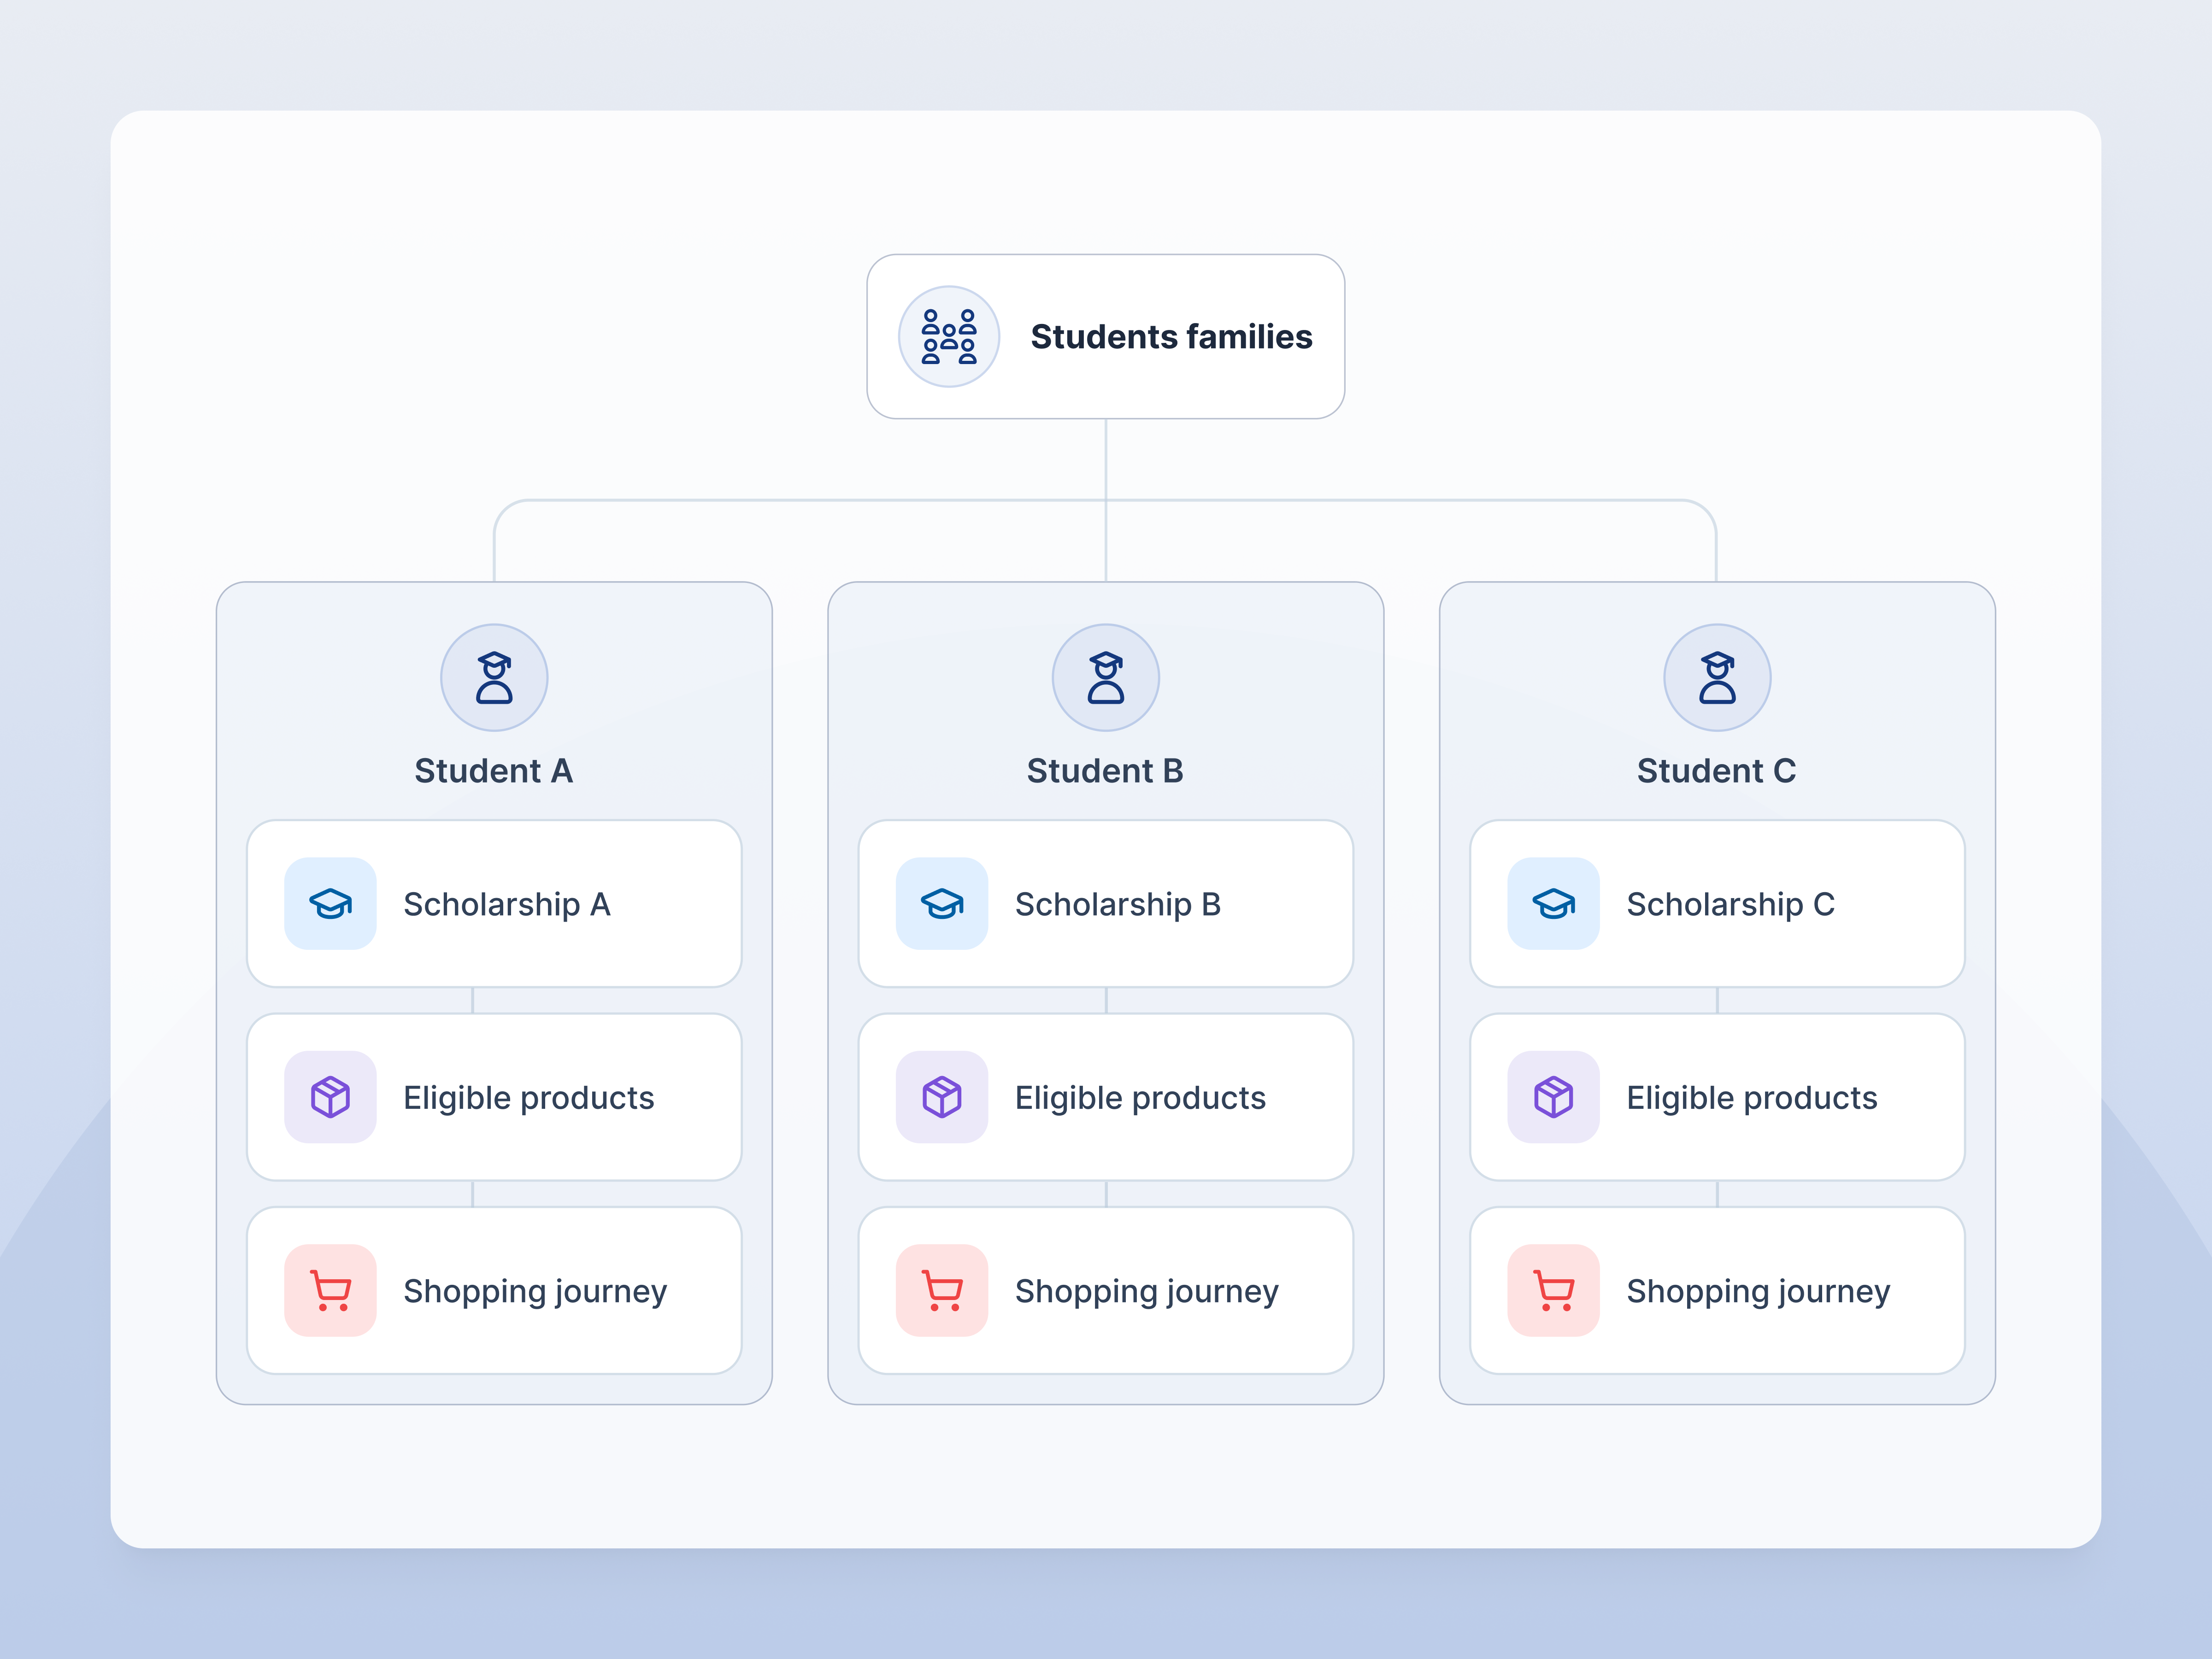
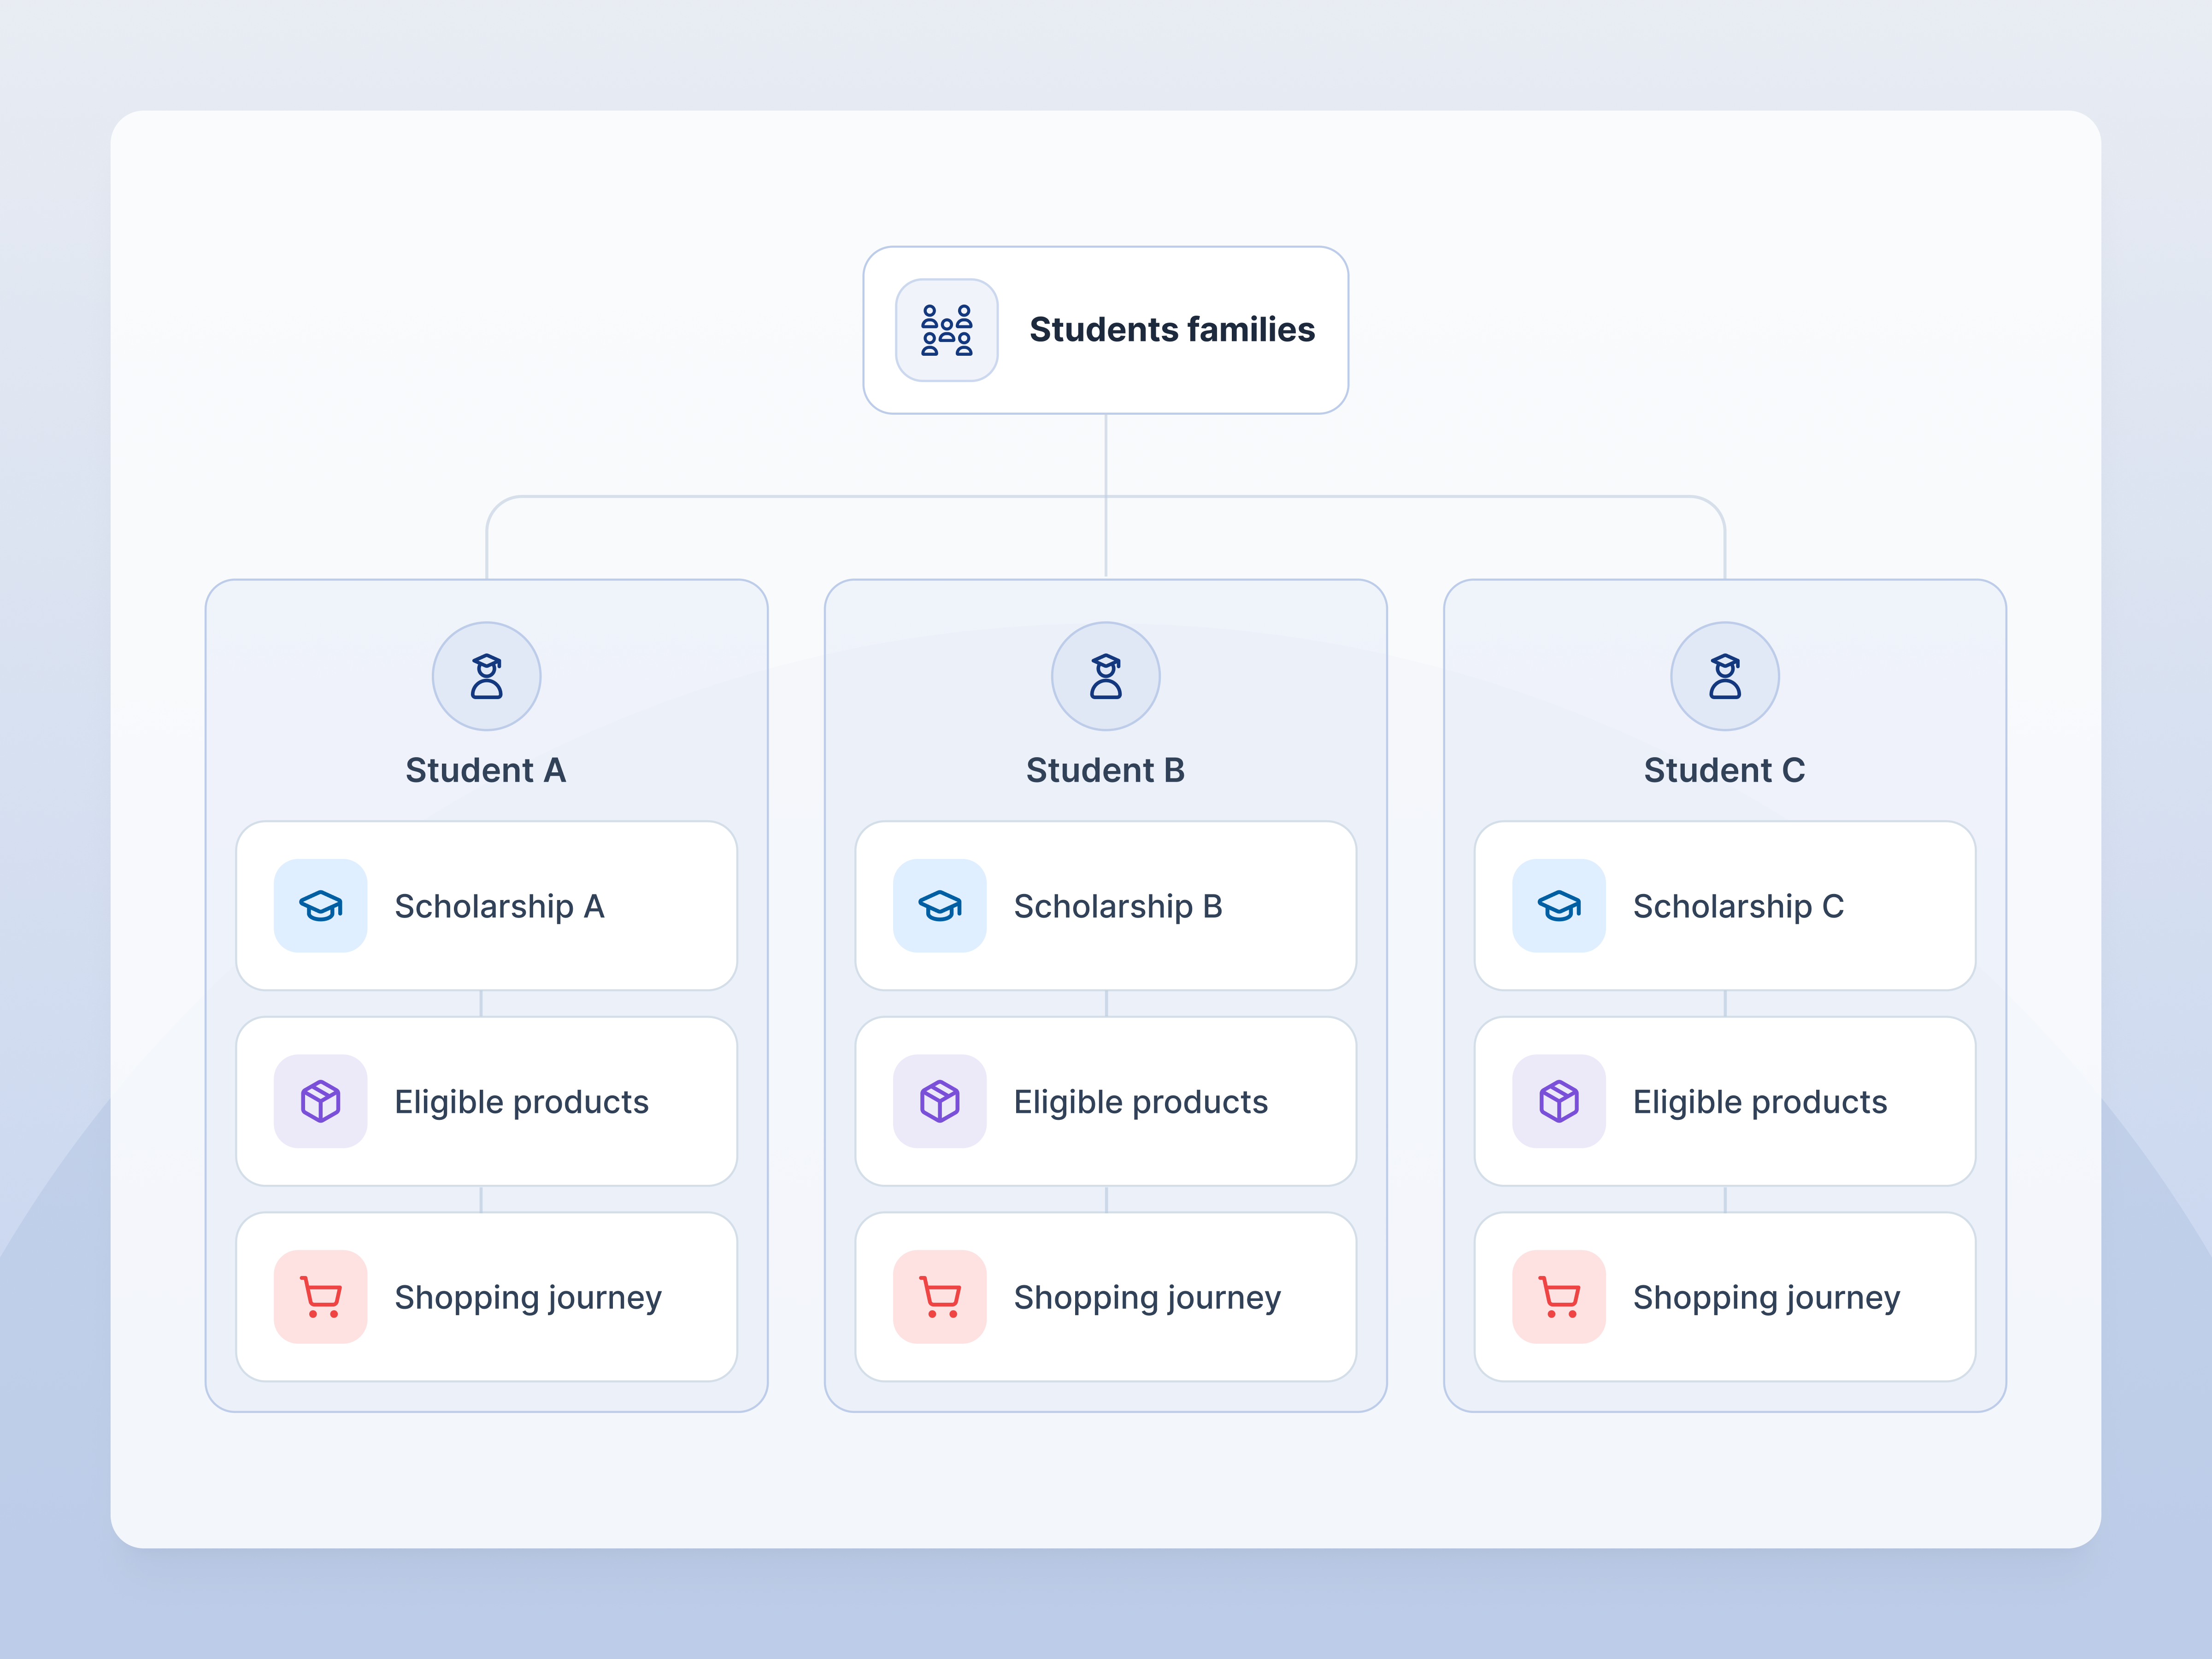
feat: add final Approach illustrations and updated Problem & Context image for My ScholarShop
Wire up approachImage/approachImage2 to the new approach-1.png and
approach-2.png assets, replacing the gradient placeholders in the
Approach section. Also refresh the Problem & Context image with a
revised version of the same asset.

diff --git a/src/lib/projects.ts b/src/lib/projects.ts
@@ -275,6 +275,8 @@ export const projects: Project[] = [
           "Designing flexible solutions that could support multiple scholarship programs, evolving business rules, and future product growth.",
       },
     ],
+    approachImage: "/projects/my-scholarshop/approach-1.png",
+    approachImage2: "/projects/my-scholarshop/approach-2.png",
     solution: {
       heading: "Unified purchasing experience",
       body: